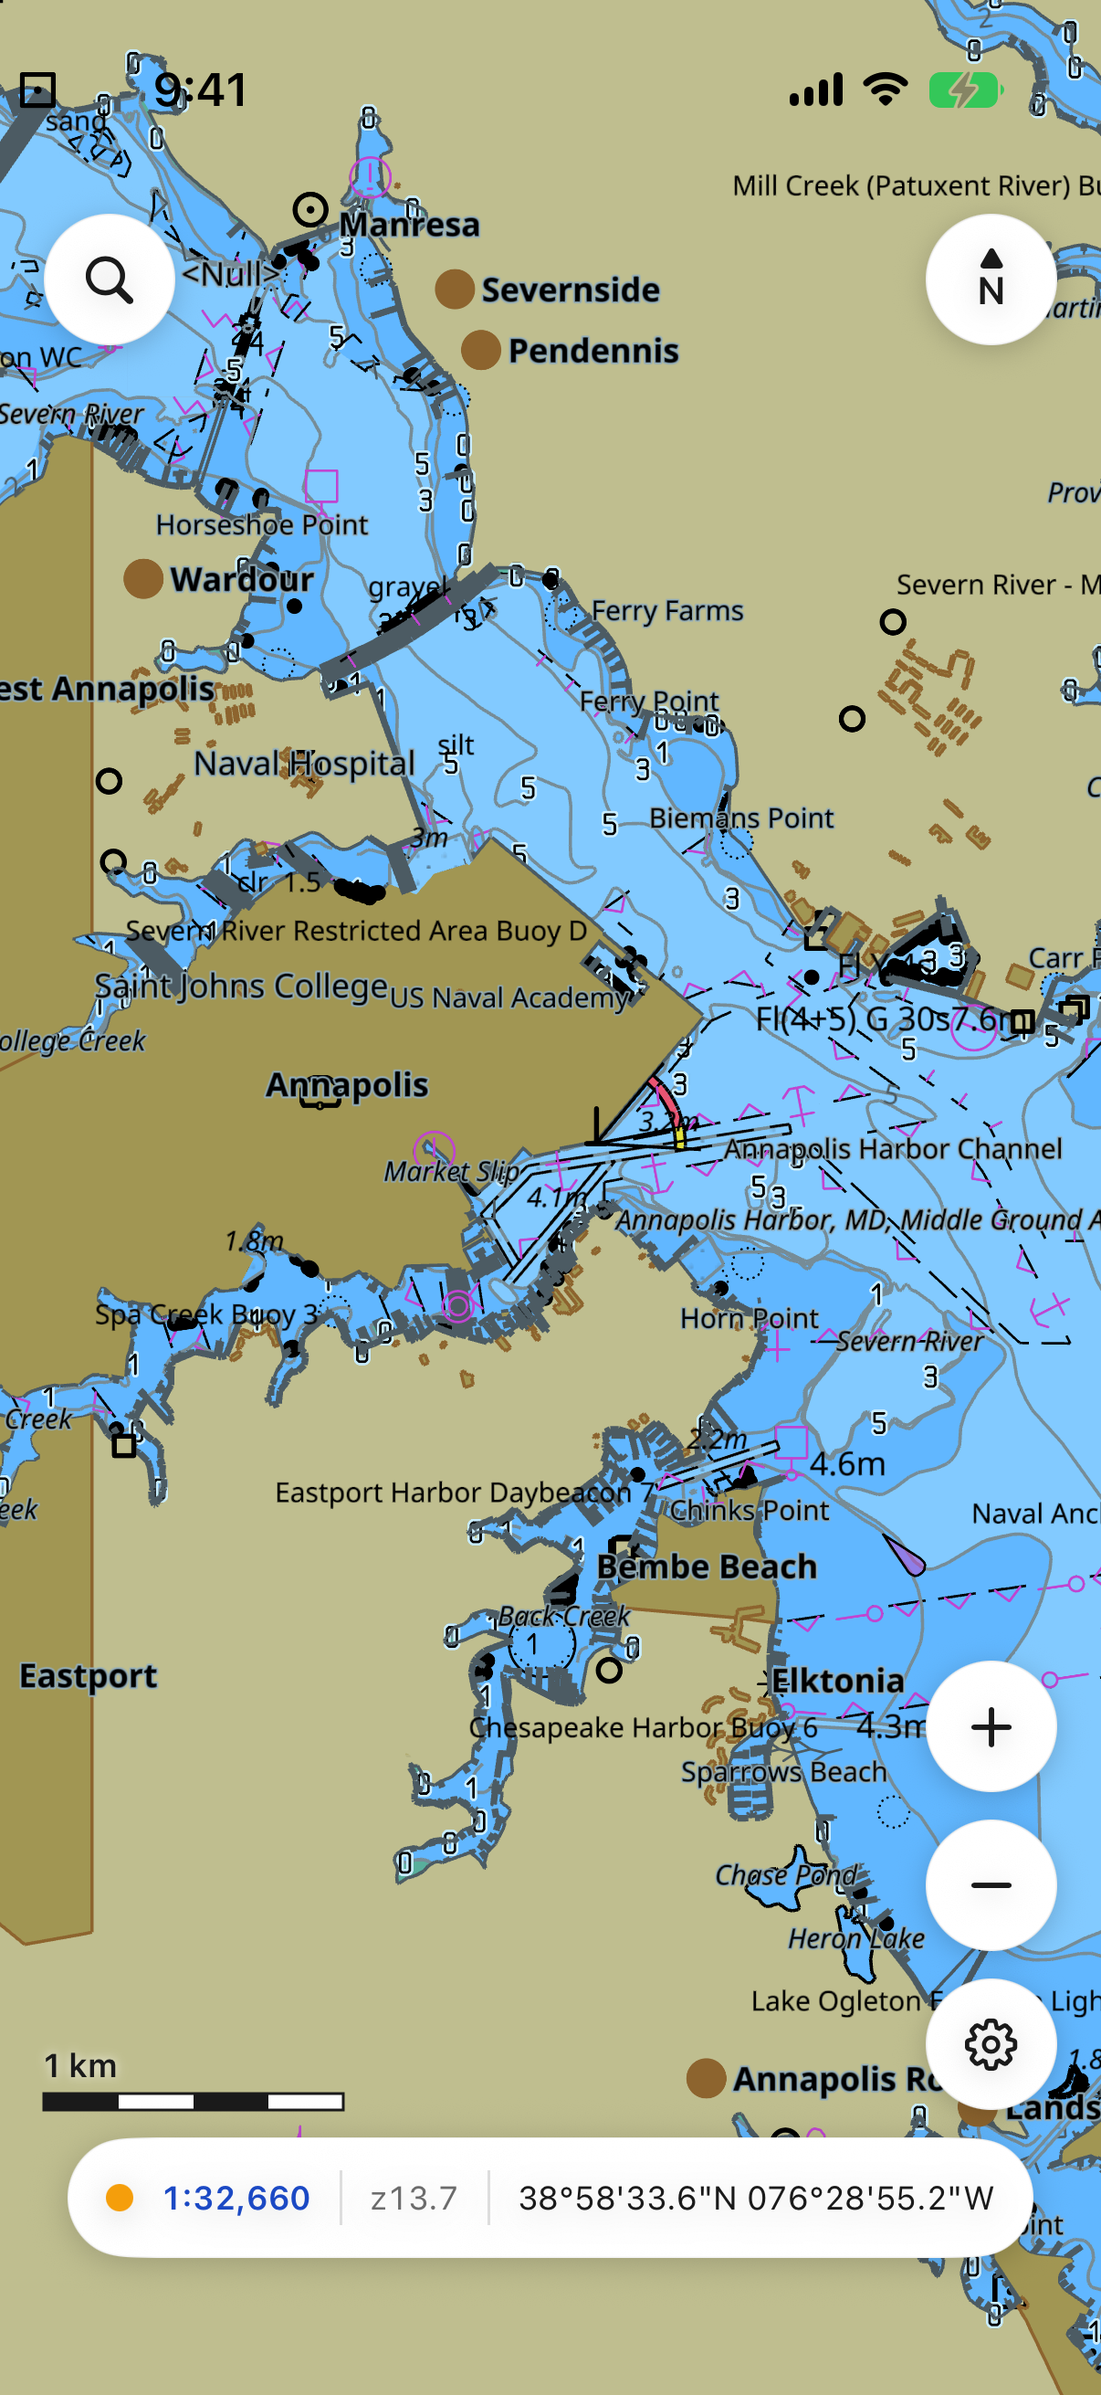
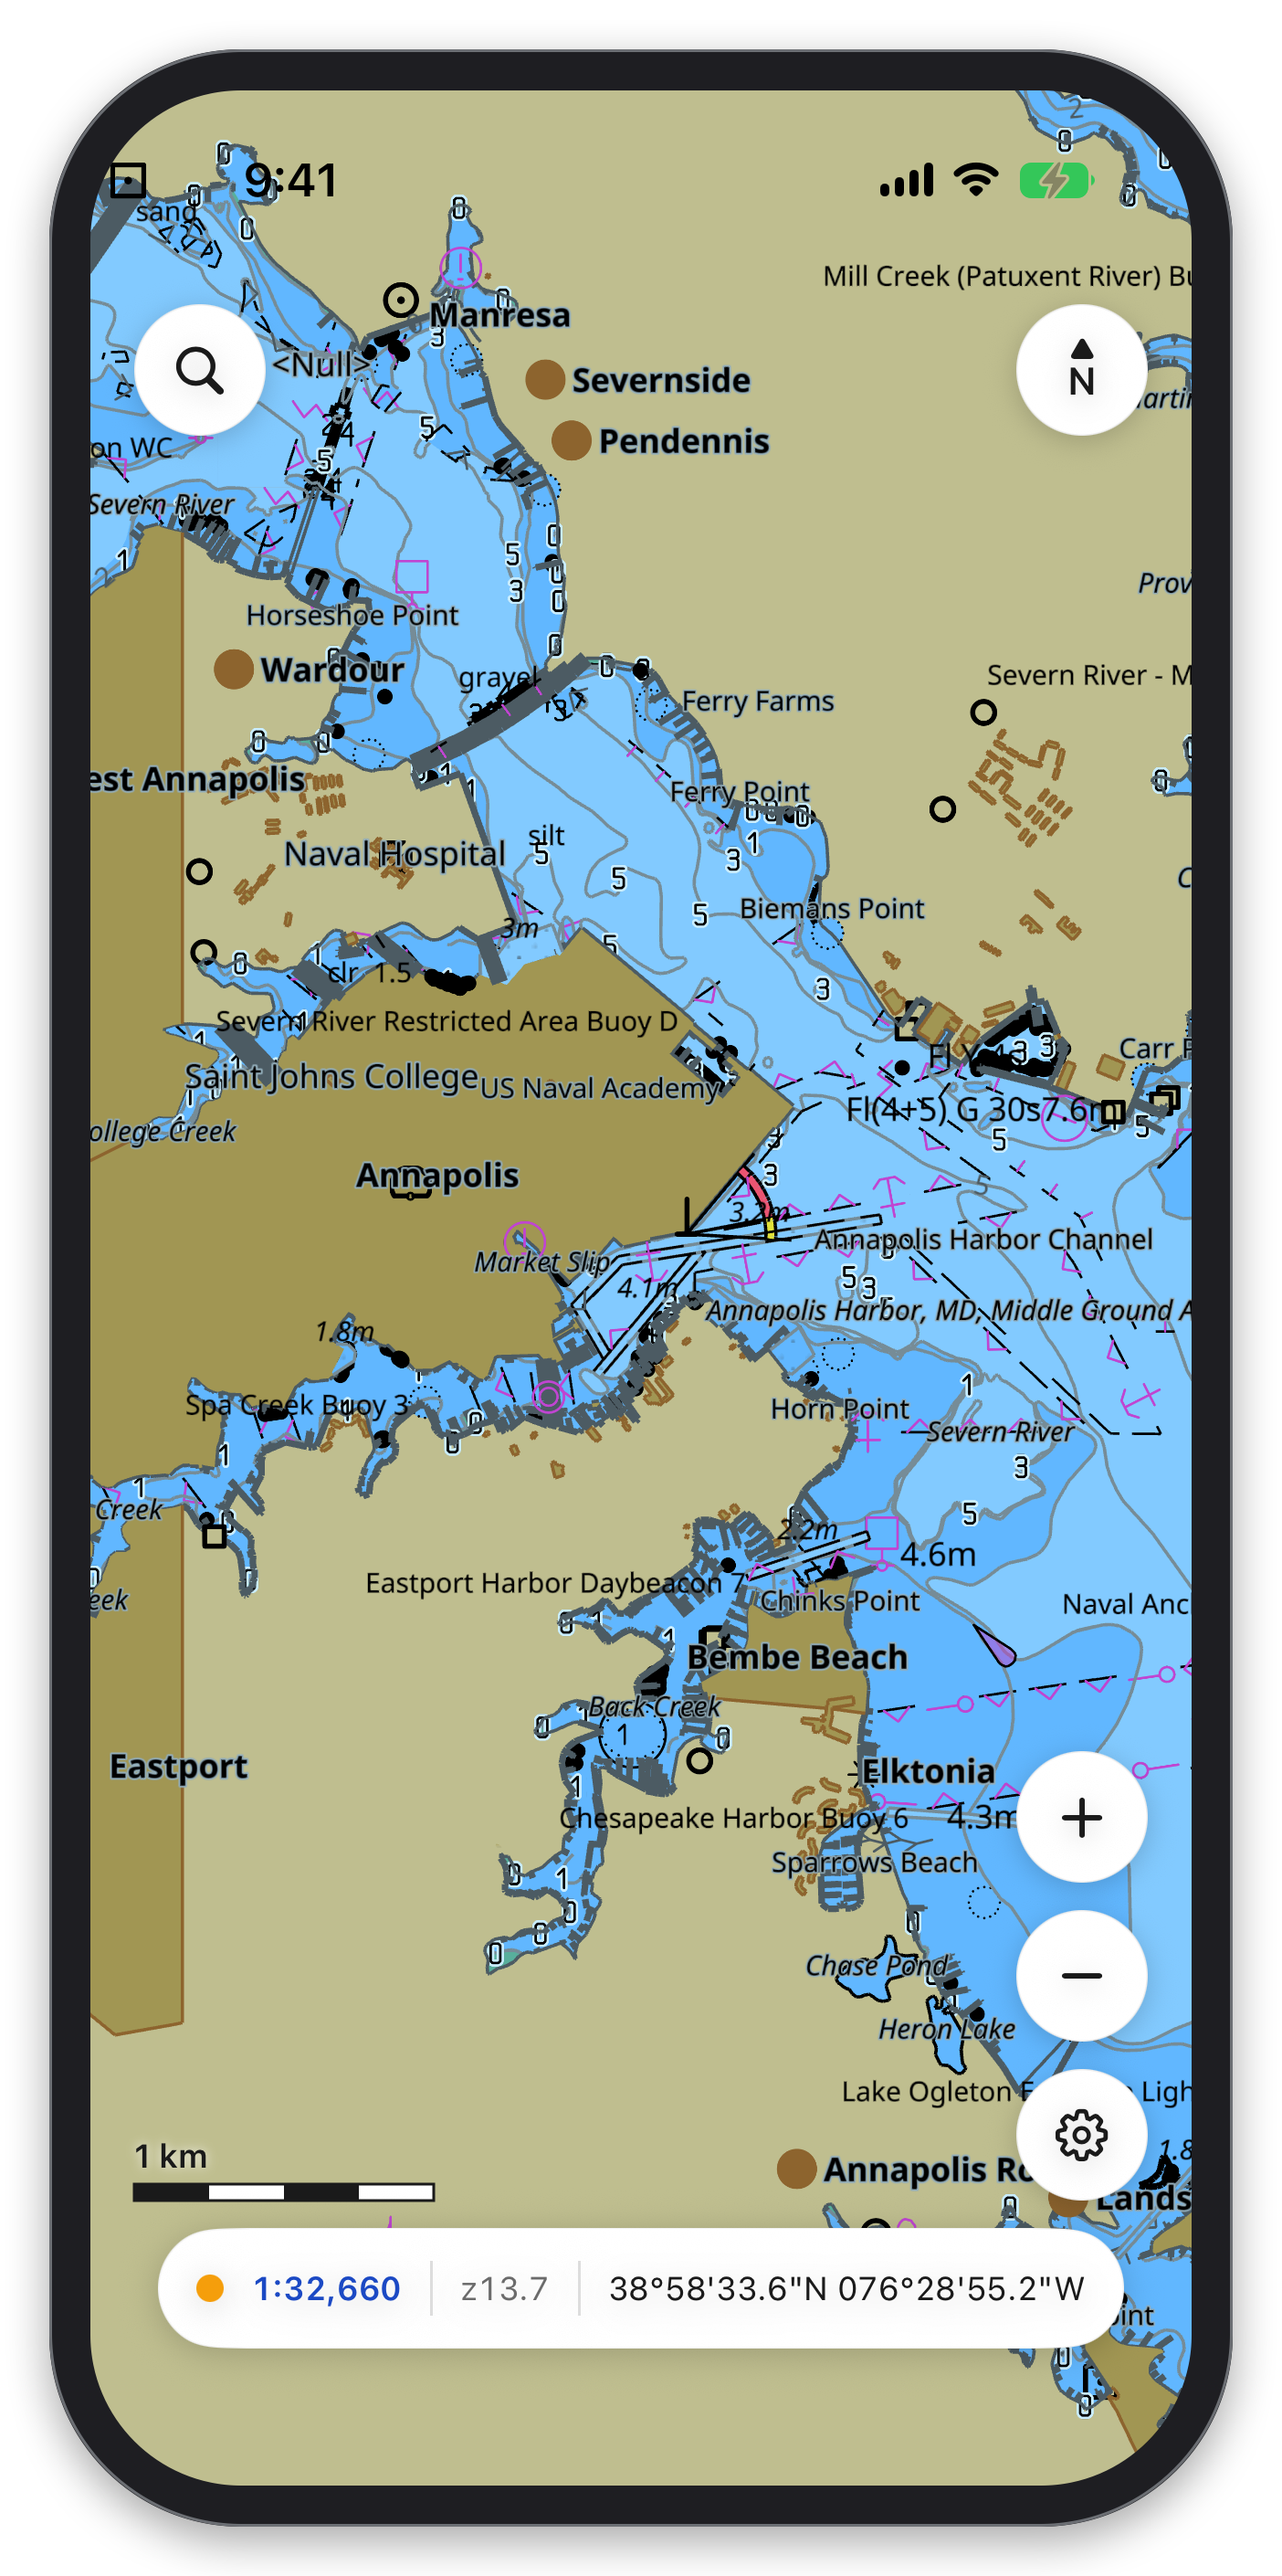
docs: frame the mobile screenshots and group them by form factor
The simulator writes the screen only, so the tablet and the phone had no
device body beside the desktop windows. frame-device.swift draws the body.
The "-raw" files keep the captures.

The README and the documentation index now hold two tables: the three desktop
windows, then the two devices. Each row is top-aligned, so a tall cell no
longer moves the other images down the page.

diff --git a/macos/frame-device.swift b/macos/frame-device.swift
@@ -1,0 +1,71 @@
+//  frame-device.swift — draw a device body around a simulator screenshot.
+//
+//  The simulator writes the screen only. The README frames put a body around it,
+//  so a phone frame and a tablet frame read as devices next to the desktop
+//  windows. The screenshot protocol (docs/docs/screenshots.md) states the sizes.
+//
+//  swift macos/frame-device.swift <in.png> <out.png> <bezel> <bodyRadius> \
+//        <screenRadius> [camera:0|1]
+
+import AppKit
+import CoreGraphics
+import UniformTypeIdentifiers
+let a = CommandLine.arguments
+guard a.count >= 6,
+      let src = NSImage(contentsOfFile: a[1])?
+          .cgImage(forProposedRect: nil, context: nil, hints: nil),
+      let bezel = Double(a[3]), let bodyRadius = Double(a[4]), let screenRadius = Double(a[5])
+else {
+    FileHandle.standardError.write(Data("usage: frame in out bezel bodyR screenR [camera]\n".utf8))
+    exit(2)
+}
+let camera = a.count > 6 ? a[6] == "1" : true
+
+let sw = Double(src.width), sh = Double(src.height)
+let bw = sw + bezel * 2, bh = sh + bezel * 2
+let margin = bezel * 1.2                       // room for the shadow
+let cw = Int(bw + margin * 2), ch = Int(bh + margin * 2)
+
+guard let ctx = CGContext(data: nil, width: cw, height: ch, bitsPerComponent: 8, bytesPerRow: 0,
+                          space: CGColorSpace(name: CGColorSpace.sRGB)!,
+                          bitmapInfo: CGImageAlphaInfo.premultipliedLast.rawValue)
+else { exit(3) }
+
+let body = CGRect(x: margin, y: margin, width: bw, height: bh)
+let screen = CGRect(x: margin + bezel, y: margin + bezel, width: sw, height: sh)
+
+ctx.setShadow(offset: CGSize(width: 0, height: -bezel * 0.35), blur: bezel * 1.1,
+              color: CGColor(gray: 0, alpha: 0.35))
+ctx.addPath(CGPath(roundedRect: body, cornerWidth: bodyRadius, cornerHeight: bodyRadius, transform: nil))
+ctx.setFillColor(CGColor(red: 0.09, green: 0.09, blue: 0.10, alpha: 1))
+ctx.fillPath()
+ctx.setShadow(offset: .zero, blur: 0, color: nil)
+
+// The rim catches the light, as the metal edge of a device does.
+ctx.addPath(CGPath(roundedRect: body.insetBy(dx: 1.5, dy: 1.5),
+                   cornerWidth: bodyRadius, cornerHeight: bodyRadius, transform: nil))
+ctx.setStrokeColor(CGColor(red: 0.35, green: 0.36, blue: 0.38, alpha: 1))
+ctx.setLineWidth(3)
+ctx.strokePath()
+
+ctx.saveGState()
+ctx.addPath(CGPath(roundedRect: screen, cornerWidth: screenRadius, cornerHeight: screenRadius, transform: nil))
+ctx.clip()
+ctx.draw(src, in: screen)
+ctx.restoreGState()
+
+if camera {
+    let r = bezel * 0.13
+    let dot = CGRect(x: margin + bw / 2 - r, y: margin + bh - bezel / 2 - r, width: r * 2, height: r * 2)
+    ctx.addEllipse(in: dot)
+    ctx.setFillColor(CGColor(red: 0.16, green: 0.17, blue: 0.19, alpha: 1))
+    ctx.fillPath()
+}
+
+guard let out = ctx.makeImage(),
+      let dest = CGImageDestinationCreateWithURL(URL(fileURLWithPath: a[2]) as CFURL,
+                                                 UTType.png.identifier as CFString, 1, nil)
+else { exit(4) }
+CGImageDestinationAddImage(dest, out, nil)
+guard CGImageDestinationFinalize(dest) else { exit(5) }
+print("wrote \(a[2]) \(out.width)x\(out.height)")

diff --git a/README.md b/README.md
@@ -8,10 +8,20 @@ and switch between day and night.
 > **Not for navigation.** This is a prototype. It is not pixel-perfect and it makes
 > no claim of ECDIS conformance.
 
-| macOS · iPadOS · iOS | Linux | Windows |
-|:---:|:---:|:---:|
-| <img src="docs/docs/img/macos-day.png" width="290" alt="Annapolis Harbor on macOS, day scheme"><br><img src="docs/docs/img/ipad-day.png" width="290" alt="Annapolis Harbor on iPad, day scheme"><br><img src="docs/docs/img/iphone-day.png" width="290" alt="Annapolis Harbor on iPhone, day scheme"> | <img src="docs/docs/img/linux-day.png" width="290" alt="Annapolis Harbor on Linux, day scheme"> | <img src="docs/docs/img/windows-day.png" width="290" alt="Annapolis Harbor on Windows, day scheme"> |
-| SwiftUI | GTK4 | WinUI 3 |
+<table>
+  <tr valign="top">
+    <td align="center"><b>macOS</b> · SwiftUI<br><img src="docs/docs/img/macos-day.png" width="300" alt="Annapolis Harbor on macOS, day scheme"></td>
+    <td align="center"><b>Linux</b> · GTK4<br><img src="docs/docs/img/linux-day.png" width="300" alt="Annapolis Harbor on Linux, day scheme"></td>
+    <td align="center"><b>Windows</b> · WinUI 3<br><img src="docs/docs/img/windows-day.png" width="300" alt="Annapolis Harbor on Windows, day scheme"></td>
+  </tr>
+</table>
+
+<table>
+  <tr valign="top">
+    <td align="center"><b>iPadOS</b> · SwiftUI<br><img src="docs/docs/img/ipad-day.png" width="230" alt="Annapolis Harbor on iPad, day scheme"></td>
+    <td align="center"><b>iOS</b> · SwiftUI<br><img src="docs/docs/img/iphone-day.png" width="160" alt="Annapolis Harbor on iPhone, day scheme"></td>
+  </tr>
+</table>
 
 ## Why it is different
 

diff --git a/docs/docs/screenshots.md b/docs/docs/screenshots.md
@@ -118,10 +118,21 @@ sleep 60   # a 7,000-cell library takes about a minute to map and draw
 xcrun simctl io booted screenshot docs/docs/img/ipad-day.png
 ```
 
-Use the same steps on an iPhone device for `iphone-day.png`. Both frames are
+Use the same steps on an iPhone device for `iphone-day-raw.png`. Both frames are
 portrait: `simctl` cannot rotate a device. To make a landscape frame, run the
 `testFrameForScreenshot` UI test with `TEST_RUNNER_LOOKOUT_FRAME=1`, which turns the
 device and then holds while you capture.
+
+The simulator writes the screen only. Add a device body, so that a tablet and a
+phone read as devices beside the desktop windows. The `-raw` file keeps the
+capture; the plain name holds the framed image.
+
+```sh
+swift macos/frame-device.swift docs/docs/img/ipad-day-raw.png \
+  docs/docs/img/ipad-day.png 60 150 90 1        # bezel, body radius, screen radius, camera
+swift macos/frame-device.swift docs/docs/img/iphone-day-raw.png \
+  docs/docs/img/iphone-day.png 45 210 165 0     # the phone camera is in the screen
+```
 
 ## How to examine a frame
 

diff --git a/docs/docs/intro.md b/docs/docs/intro.md
@@ -16,10 +16,16 @@ This is a prototype. It is not pixel-perfect and it makes no claim of ECDIS
 conformance.
 :::
 
-| macOS · iPadOS · iOS | Linux |
-|:---:|:---:|
-| ![Annapolis Harbor on iPad, day scheme](./img/ipad-day.png) | ![Annapolis Harbor on Linux, day scheme](./img/linux-day.png) |
-| SwiftUI | GTK4 |
+<table>
+  <tr valign="top">
+    <td align="center"><b>macOS</b> · SwiftUI<br /><img src="./img/macos-day.png" width="330" alt="Annapolis Harbor on macOS, day scheme" /></td>
+    <td align="center"><b>Linux</b> · GTK4<br /><img src="./img/linux-day.png" width="330" alt="Annapolis Harbor on Linux, day scheme" /></td>
+  </tr>
+  <tr valign="top">
+    <td align="center"><b>iPadOS</b> · SwiftUI<br /><img src="./img/ipad-day.png" width="230" alt="Annapolis Harbor on iPad, day scheme" /></td>
+    <td align="center"><b>iOS</b> · SwiftUI<br /><img src="./img/iphone-day.png" width="160" alt="Annapolis Harbor on iPhone, day scheme" /></td>
+  </tr>
+</table>
 
 ## These pages
 
